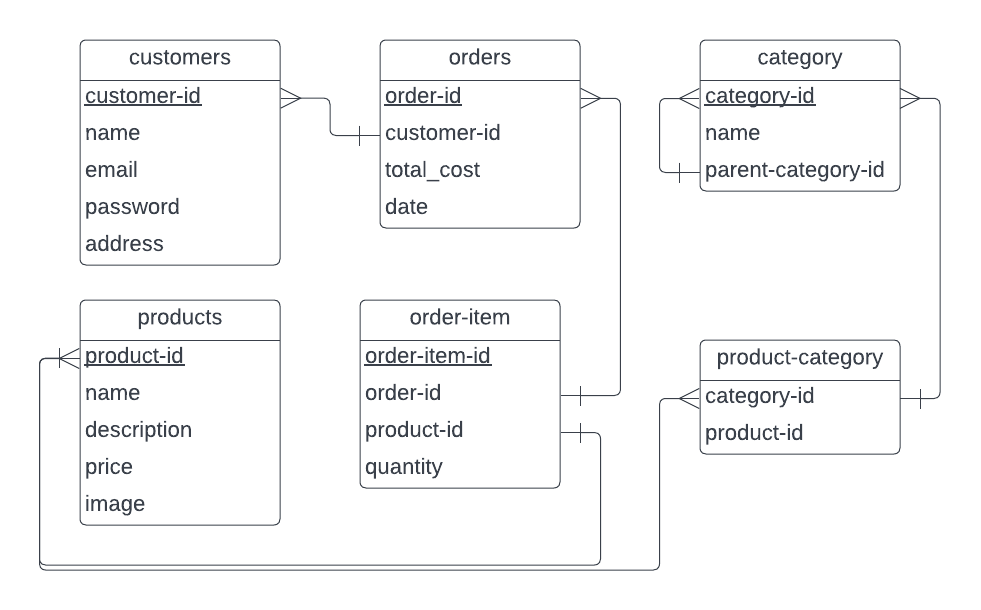
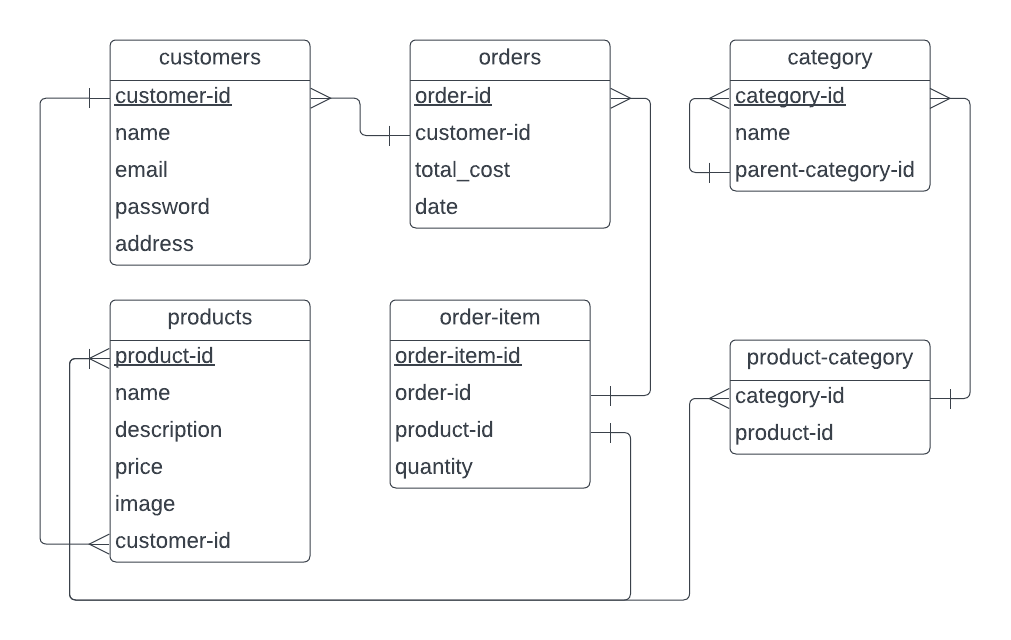
add unit tests

diff --git a/tests/conftest.py b/tests/conftest.py
@@ -2,12 +2,13 @@ from fastapi.testclient import TestClient
 from sqlalchemy import create_engine
 from sqlalchemy.orm import sessionmaker, Session
 from faker import Faker
-from random import randint
+from random import randint, choice
 import pytest
 
 from app.main import app
 from app.models import Base, Product
 from app.database import SQLALCHEMY_URL, get_db
+from app.oauth2 import create_access_token
 from app import schemas
 
 SQLALCHEMY_URL += "_test"
@@ -42,15 +43,72 @@ def client(session):
     yield TestClient(app)
 
 
+@pytest.fixture
+def create_test_user(client: TestClient):
+    user_creds = {
+        "name": "tester",
+        "email": "test@example.com",
+        "address": "heaven",
+        "password": "password",
+    }
+    res = client.post("/customers", json=user_creds)
+    assert res.status_code == 201
+    return {**res.json()}
+
+
+@pytest.fixture
+def create_test_user2(client):
+    user_creds = {
+        "name": "tester2",
+        "email": "test2@example.com",
+        "address": "heaven",
+        "password": "password",
+    }
+    res = client.post("/customers", json=user_creds)
+    assert res.status_code == 201
+    return {**res.json()}
+
+
+@pytest.fixture
+def token(create_test_user):
+    return create_access_token({"customer_id": create_test_user["customer_id"]})
+
+
+@pytest.fixture
+def authorized_client(client: TestClient, token):
+    client.headers.update({"Authorization": f"Bearer {token}"})
+    return client
+
+
 @pytest.fixture()
-def create_test_products(session: Session):
+def create_test_products(session: Session, create_test_user, create_test_user2):
     def convert(x):
-        return Product(**{"name": x[0], "price": x[1], "description": x[2]})
+        return Product(
+            **{
+                "name": x[0],
+                "price": x[1],
+                "description": x[2],
+                "customer_id": x[3],
+            }
+        )
 
     products = list(
         map(
             convert,
-            [[fake.word(), randint(1, 1000), fake.catch_phrase()] for _ in range(10)],
+            [
+                [
+                    fake.word(),
+                    randint(1, 1000),
+                    fake.catch_phrase(),
+                    choice(
+                        [
+                            create_test_user["customer_id"],
+                            create_test_user2["customer_id"],
+                        ]
+                    ),
+                ]
+                for _ in range(10)
+            ],
         )
     )
 

diff --git a/app/routers/products.py b/app/routers/products.py
@@ -37,7 +37,7 @@ def create_product(
     db: Session = Depends(database.get_db),
     customer: schemas.CustomerOut = Depends(oauth2.get_current_customer),
 ):
-    new_product = models.Product(**product.dict())
+    new_product = models.Product(**product.dict(), customer_id=customer.customer_id)
     db.add(new_product)
     db.commit()
     db.refresh(new_product)
@@ -56,6 +56,12 @@ def delete_product(
         raise HTTPException(
             status_code=status.HTTP_404_NOT_FOUND,
             detail=f"Product with id {id} does not exist",
+        )
+
+    if product_query.first().customer_id != customer.customer_id:
+        raise HTTPException(
+            status_code=status.HTTP_403_FORBIDDEN,
+            detail=f"You are forbidden from deleting post with id {id}",
         )
 
     product_query.delete(synchronize_session=False)
@@ -77,6 +83,12 @@ def update_product(
         raise HTTPException(
             status_code=status.HTTP_404_NOT_FOUND,
             detail=f"Product with id {id} does not exist",
+        )
+
+    if product_query.first().customer_id != customer.customer_id:
+        raise HTTPException(
+            status_code=status.HTTP_403_FORBIDDEN,
+            detail=f"You are forbidden from updating post with id {id}",
         )
 
     product_query.update(product.dict(), synchronize_session=False)

diff --git a/tests/test_products.py b/tests/test_products.py
@@ -1,7 +1,34 @@
 from fastapi.testclient import TestClient
 
 
-def test_all_products(client: TestClient, create_test_products):
-    res = client.get("/products")
+def test_all_products(authorized_client: TestClient, create_test_products):
+    res = authorized_client.get("/products")
     assert len(create_test_products) == len(res.json())
+    assert res.status_code == 200
+
+
+def test_unauthorized_client(client: TestClient, create_test_products):
+    res = client.get("/products")
+    assert res.status_code == 401
+
+
+def test_unauthorized_single_product(client: TestClient, create_test_products):
+    res = client.get(f"/products/{create_test_products[0].product_id}")
+    assert res.status_code == 401
+
+
+def test_single_product_not_exist(authorized_client: TestClient):
+    res = authorized_client.get("/products/2222")
+    assert res.status_code == 404
+
+
+def test_single_product_authorized_customer(
+    authorized_client: TestClient, create_test_products
+):
+    product = create_test_products[0]
+    res = authorized_client.get(f"/products/{product.product_id}")
+    res_product = res.json()
+    assert res_product.get("product_id") == product.product_id
+    assert res_product.get("name") == product.name
+    assert res_product.get("description") == product.description
     assert res.status_code == 200

diff --git a/alembic/versions/67be0a1bc32c_add_customer_id_fk_to_products_table.py b/alembic/versions/67be0a1bc32c_add_customer_id_fk_to_products_table.py
@@ -1,0 +1,30 @@
+"""add customer_id fk to products table
+
+Revision ID: 67be0a1bc32c
+Revises: 0ff05cd97743
+Create Date: 2023-02-10 14:32:37.485522
+
+"""
+from alembic import op
+import sqlalchemy as sa
+
+
+# revision identifiers, used by Alembic.
+revision = '67be0a1bc32c'
+down_revision = '0ff05cd97743'
+branch_labels = None
+depends_on = None
+
+
+def upgrade() -> None:
+    # ### commands auto generated by Alembic - please adjust! ###
+    op.add_column('products', sa.Column('customer_id', sa.Integer(), nullable=False))
+    op.create_foreign_key('fk_product_customer', 'products', 'customers', ['customer_id'], ['customer_id'], ondelete='CASCADE')
+    # ### end Alembic commands ###
+
+
+def downgrade() -> None:
+    # ### commands auto generated by Alembic - please adjust! ###
+    op.drop_constraint('fk_product_customer', 'products', type_='foreignkey')
+    op.drop_column('products', 'customer_id')
+    # ### end Alembic commands ###

diff --git a/app/schemas.py b/app/schemas.py
@@ -3,6 +3,24 @@ from pydantic import BaseModel, EmailStr
 from datetime import datetime
 
 
+class CustomerIn(BaseModel):
+    name: str
+    email: EmailStr
+    password: str
+    address: str
+
+
+class CustomerOut(BaseModel):
+    customer_id: int
+    name: str
+    email: EmailStr
+    address: str
+    # created_at: datetime
+
+    class Config:
+        orm_mode = True
+
+
 class ProductIn(BaseModel):
     name: str
     price: float
@@ -12,21 +30,7 @@ class ProductIn(BaseModel):
 class ProductOut(ProductIn):
     product_id: int
     created_at: datetime
-
-    class Config:
-        orm_mode = True
-
-
-class CustomerIn(BaseModel):
-    name: str
-    email: EmailStr
-    password: str
-    address: str
-
-
-class CustomerOut(CustomerIn):
-    customer_id: int
-    created_at: datetime
+    # customer: CustomerOut
 
     class Config:
         orm_mode = True

diff --git a/app/models.py b/app/models.py
@@ -1,4 +1,5 @@
-from sqlalchemy import Column, Integer, Numeric, String, TIMESTAMP, text
+from sqlalchemy import Column, Integer, Numeric, String, TIMESTAMP, text, ForeignKey
+from sqlalchemy.orm import relationship
 
 from app.database import Base
 
@@ -10,9 +11,17 @@ class Product(Base):
     name = Column(String, nullable=False)
     price = Column(Numeric, nullable=False)
     description = Column(String, nullable=True)
+    customer_id = Column(
+        Integer,
+        ForeignKey(
+            "customers.customer_id", ondelete="CASCADE", name="fk_product_customer"
+        ),
+        nullable=False,
+    )
     created_at = Column(
         TIMESTAMP(timezone=True), nullable=False, server_default=text("now()")
     )
+    customer = relationship("Customer")
 
 
 class Customer(Base):

diff --git a/app/routers/customers.py b/app/routers/customers.py
@@ -17,7 +17,9 @@ def get_all_customers(
     return customers
 
 
-@router.post("", response_model=schemas.CustomerOut)
+@router.post(
+    "", response_model=schemas.CustomerOut, status_code=status.HTTP_201_CREATED
+)
 def create_customer(
     customer: schemas.CustomerIn, db: Session = Depends(database.get_db)
 ):

diff --git a/README.md b/README.md
@@ -2,9 +2,9 @@
 
 ### TODO routes
 
-- [ ] create customer
-- [ ] login customer
-- [ ] list all customers
+- [x] create customer
+- [x] login customer
+- [x] list all customers
 - [x] add product (add category also)
 - [ ] add order (add order_item also)
 - [ ] add category
